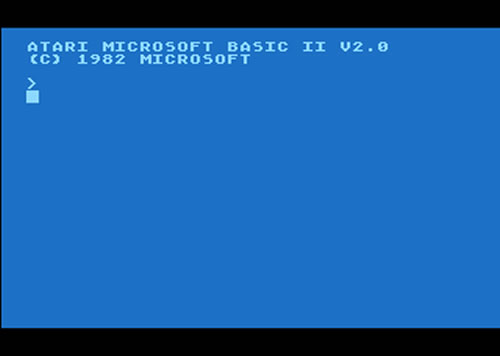
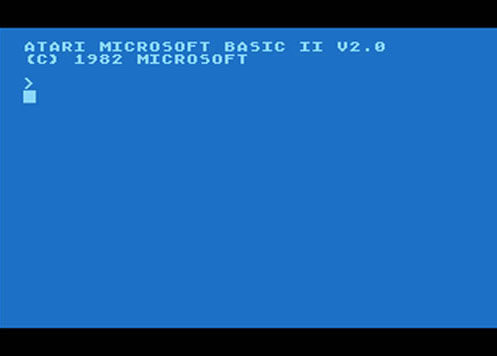
Migliorata estetica pagina Contatti e ridimensionate immagini pagina Francesco

Changed region(s): [[0.0, 0.0927, 0.5734, 0.927], [0.6036, 0.0927, 0.7847, 0.1545]]

diff --git a/ImagineSoftwareWebsite/ImagineSoftwareWebsite/wwwroot/css/site.css b/ImagineSoftwareWebsite/ImagineSoftwareWebsite/wwwroot/css/site.css
@@ -125,6 +125,7 @@ h3 {
     text-align: left;
     font-size: 1.4rem;
     padding: 1rem 0;
+    font-weight: normal;
 }
 
 h4 {
@@ -200,6 +201,7 @@ h4 {
     flex-direction: column;
     width: 100%;
     font-size: 1.1rem;
+    margin: 3rem 0;
 }
 
     .contact-form input[type=text], .contact-form input[type=email], .contact-form textarea {
@@ -226,6 +228,7 @@ h4 {
     #btnContactSubmit {
         align-self: flex-start;
         margin-left: 0;
+        margin-top: 2rem;
     }
 
 .common-link {
@@ -266,5 +269,5 @@ h4 {
 }
 
 .microsoft-basic-photo {
-    max-width: 300px !important;
+    max-width: 400px !important;
 }
